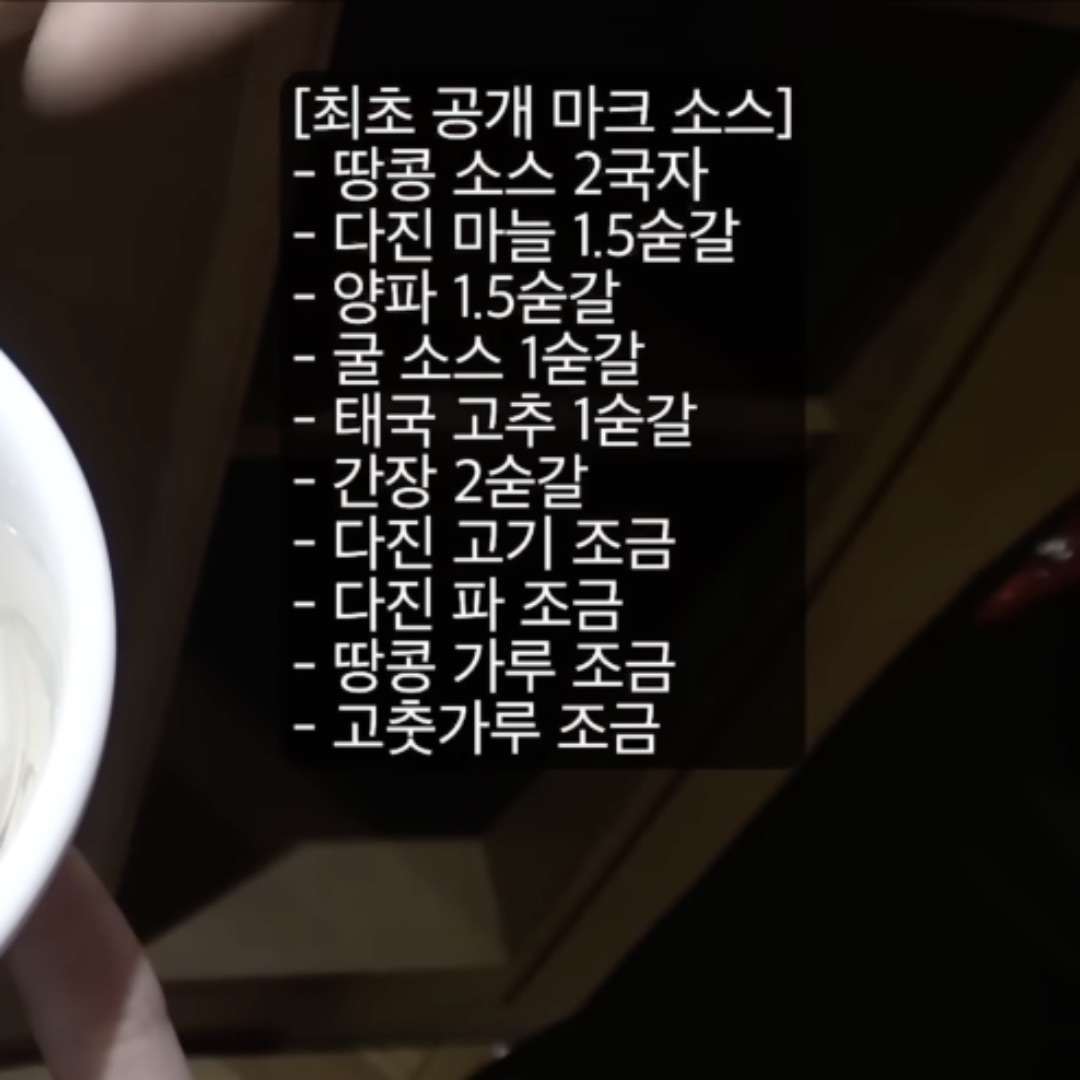
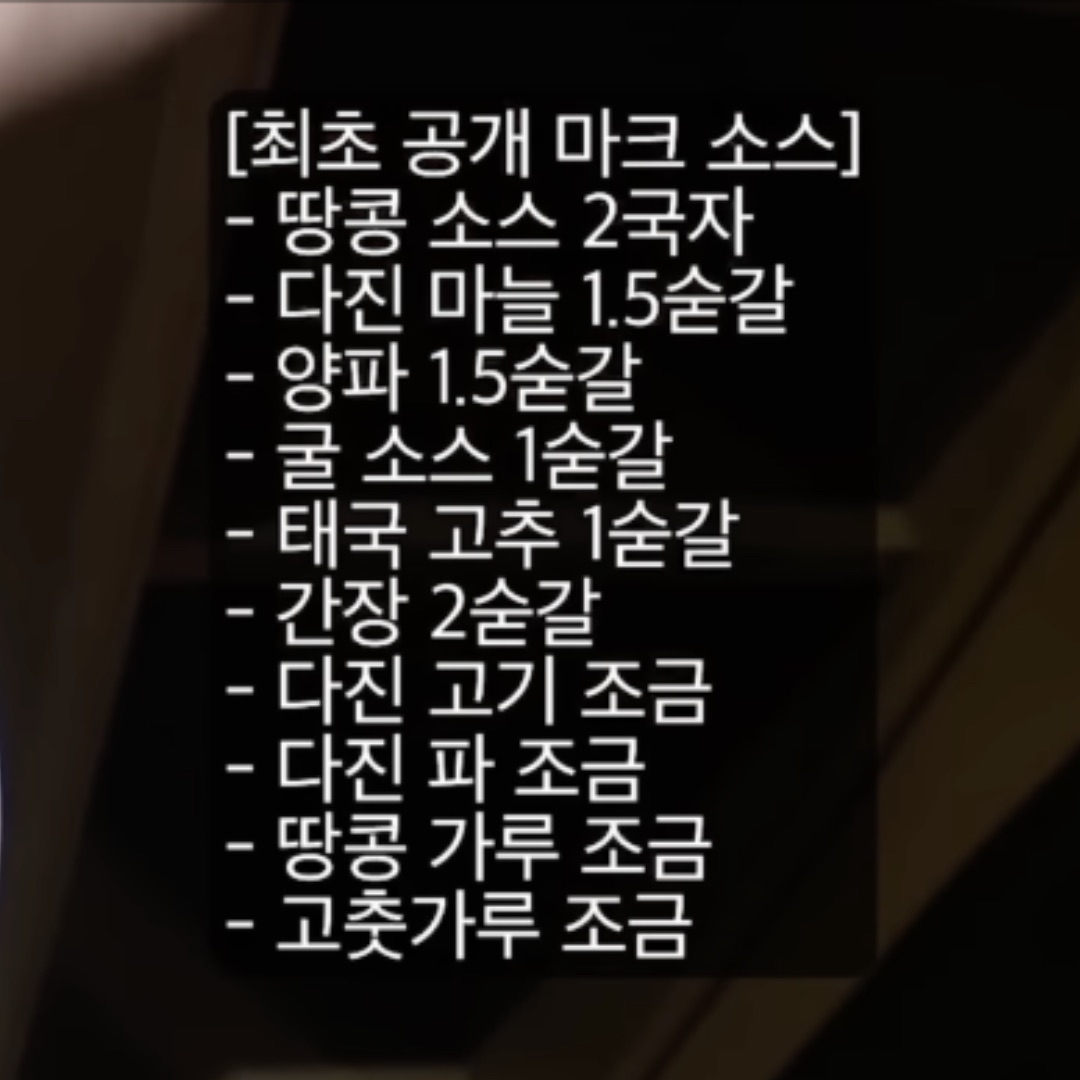
라젤·라젤아는동생·마크·화령 썸네일 교체 + 캐시방지
- 4개 썸네일을 더 크고 가독성 높은 버전으로 교체
- in-place 교체라 해당 img에 ?v=2 캐시버스팅 추가

diff --git a/script.js b/script.js
@@ -48,7 +48,7 @@
       ings: [['소금', '3', '티스푼'], ['참기름', '3', '스푼'], ['고추기름', '0.5', '스푼'], ['다진마늘', '1', '스푼'], ['참깨', '1', '티스푼'], ['마라시즈닝(고춧가루)', '1', '티스푼']],
       steps: [],
       tip: '' },
-    { id: 's4', date: '2026-01-27', cat: '소스', emoji: '🥣', img: 'assets/cards/화령소스.jpg', imgFit: 'cover', tint: 'linear-gradient(160deg,#F5E1C8,#E8C79A)', name: '화령소스', source: '네이버블로그 sjsilver23', desc: '하이디라오 부산역점 직원이 네이버 블로거인 지금이네(sjsilver23)에게 가져다준 소스로 그 포스팅을 \'이예지\'가 발견하면서 알려진 소스이다.',
+    { id: 's4', date: '2026-01-27', cat: '소스', emoji: '🥣', img: 'assets/cards/화령소스.jpg?v=2', imgFit: 'cover', tint: 'linear-gradient(160deg,#F5E1C8,#E8C79A)', name: '화령소스', source: '네이버블로그 sjsilver23', desc: '하이디라오 부산역점 직원이 네이버 블로거인 지금이네(sjsilver23)에게 가져다준 소스로 그 포스팅을 \'이예지\'가 발견하면서 알려진 소스이다.',
       ings: [['땅콩참깨소스', '0.25', '스푼'], ['스위트칠리소스', '3.5~4', '스푼'], ['튀긴대두', '2~3', '스푼'], ['참기름', '0.5', '스푼'], ['고추기름', '0.5', '스푼'], ['다진양파', '3', '스푼'], ['다진파', '3', '스푼'], ['다진마늘', '1', '스푼']],
       steps: [],
       tip: '튀긴대두, 양파, 다진파, 다진마늘은 많으면 많을수록 맛있음' },
@@ -64,15 +64,15 @@
       ings: [['땅콩참깨소스', '2', '스푼'], ['스위트칠리소스', '1.5', '스푼'], ['태국고추', '2', '스푼'], ['마라시즈닝(고춧가루)', '1.5', '스푼'], ['다진파', '1.5', '스푼'], ['다진마늘', '1', '스푼'], ['참기름', '2', '바퀴'], ['간장소스', '1', '바퀴'], ['오향우육(다진고기)', '1.5', '스푼'], ['참깨', '', '적당히'], ['설탕', '', '한 꼬집'], ['땅콩가루', '', '한 꼬집']],
       steps: [],
       tip: '' },
-    { id: 's7', date: '2025-04-11', cat: '소스', emoji: '🥣', img: 'assets/cards/마크소스.jpg', imgFit: 'cover', tint: 'linear-gradient(160deg,#FDEBD0,#F5C99B)', name: '마크소스', source: 'YouTube 채널십오야', desc: '유튜브 채널 \'채널십오야\'의 나영석의 보글보글 촬영 중 \'마크\'가 공개한 소스이다.',
+    { id: 's7', date: '2025-04-11', cat: '소스', emoji: '🥣', img: 'assets/cards/마크소스.jpg?v=2', imgFit: 'cover', tint: 'linear-gradient(160deg,#FDEBD0,#F5C99B)', name: '마크소스', source: 'YouTube 채널십오야', desc: '유튜브 채널 \'채널십오야\'의 나영석의 보글보글 촬영 중 \'마크\'가 공개한 소스이다.',
       ings: [['땅콩참깨소스', '2', '스푼'], ['다진마늘', '1.5', '스푼'], ['다진양파', '1.5', '스푼'], ['굴소스', '1', '스푼'], ['태국고추', '1', '스푼'], ['간장소스', '2', '스푼'], ['오향우육(다진고기)', '', '적당히'], ['다진파', '', '적당히'], ['땅콩가루', '', '적당히'], ['마라시즈닝(고춧가루)', '', '적당히']],
       steps: [],
       tip: '' },
-    { id: 's14', date: '2026-05-18', cat: '소스', emoji: '🥣', img: 'assets/cards/라젤소스.jpg', imgFit: 'cover', tint: 'linear-gradient(160deg,#EAF3D8,#C9DFA0)', name: '라젤소스', source: 'YouTube 라젤Razel', desc: '유튜브 채널 \'라젤Razel\'에서 라젤이 좋아한다며 공개한 간장 베이스 소스이다.',
+    { id: 's14', date: '2026-05-18', cat: '소스', emoji: '🥣', img: 'assets/cards/라젤소스.jpg?v=2', imgFit: 'cover', tint: 'linear-gradient(160deg,#EAF3D8,#C9DFA0)', name: '라젤소스', source: 'YouTube 라젤Razel', desc: '유튜브 채널 \'라젤Razel\'에서 라젤이 좋아한다며 공개한 간장 베이스 소스이다.',
       ings: [['다진양파', '', '넉넉하게'], ['간장소스', '2', '스푼'], ['다진마늘', '1', '스푼'], ['다진파', '1', '스푼'], ['고추기름', '1', '스푼'], ['마라시즈닝(고춧가루)', '1', '스푼'], ['중국식초', '1', '스푼'], ['참기름', '0.5', '스푼'], ['태국고추', '', '넉넉하게']],
       steps: [],
       tip: '' },
-    { id: 's15', date: '2026-05-18', cat: '소스', emoji: '🥣', img: 'assets/cards/라젤 아는 동생소스.jpg', imgFit: 'cover', tint: 'linear-gradient(160deg,#F3E8D6,#DCC39E)', name: '라젤 아는 동생소스', source: 'YouTube 라젤Razel', desc: '유튜브 채널 \'라젤Razel\'에서 라젤이 \'아는 동생이 이렇게 먹는다\'며 소개한 소스이다.',
+    { id: 's15', date: '2026-05-18', cat: '소스', emoji: '🥣', img: 'assets/cards/라젤 아는 동생소스.jpg?v=2', imgFit: 'cover', tint: 'linear-gradient(160deg,#F3E8D6,#DCC39E)', name: '라젤 아는 동생소스', source: 'YouTube 라젤Razel', desc: '유튜브 채널 \'라젤Razel\'에서 라젤이 \'아는 동생이 이렇게 먹는다\'며 소개한 소스이다.',
       ings: [['참기름', '2', '스푼'], ['소금', '0.5', '스푼'], ['다진마늘', '1', '스푼'], ['다진파', '1', '스푼'], ['태국고추', '1', '스푼']],
       steps: [],
       tip: '' },

diff --git a/index.html b/index.html
@@ -302,6 +302,6 @@
   </div>
 </div>
 
-<script src="script.js?v=76"></script>
+<script src="script.js?v=77"></script>
 </body>
 </html>